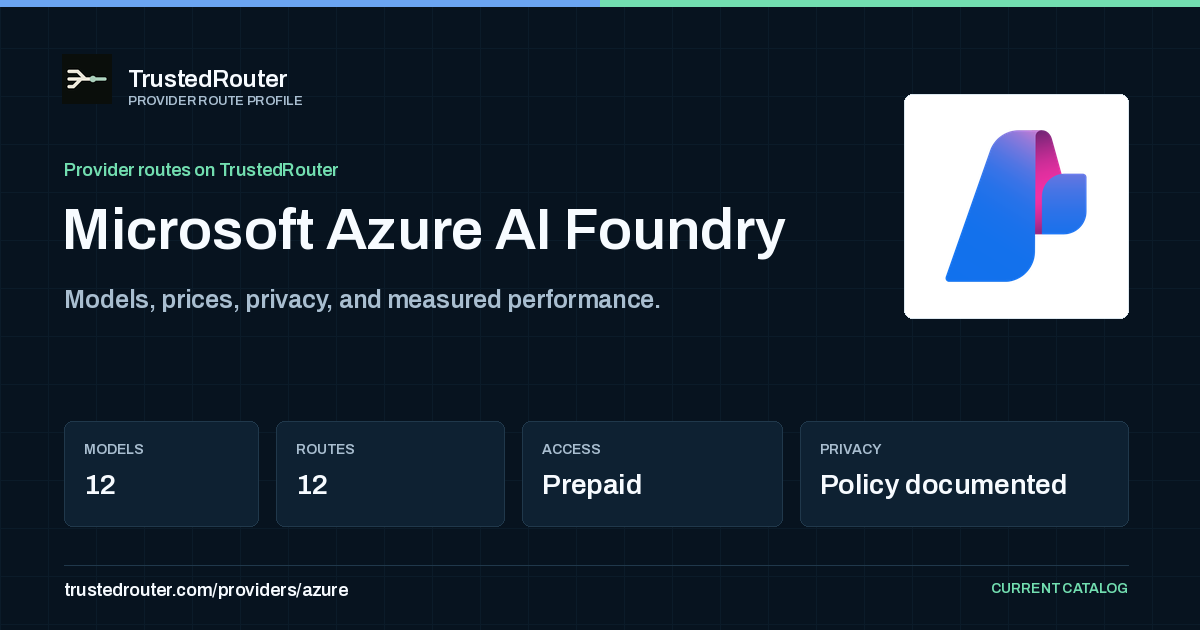
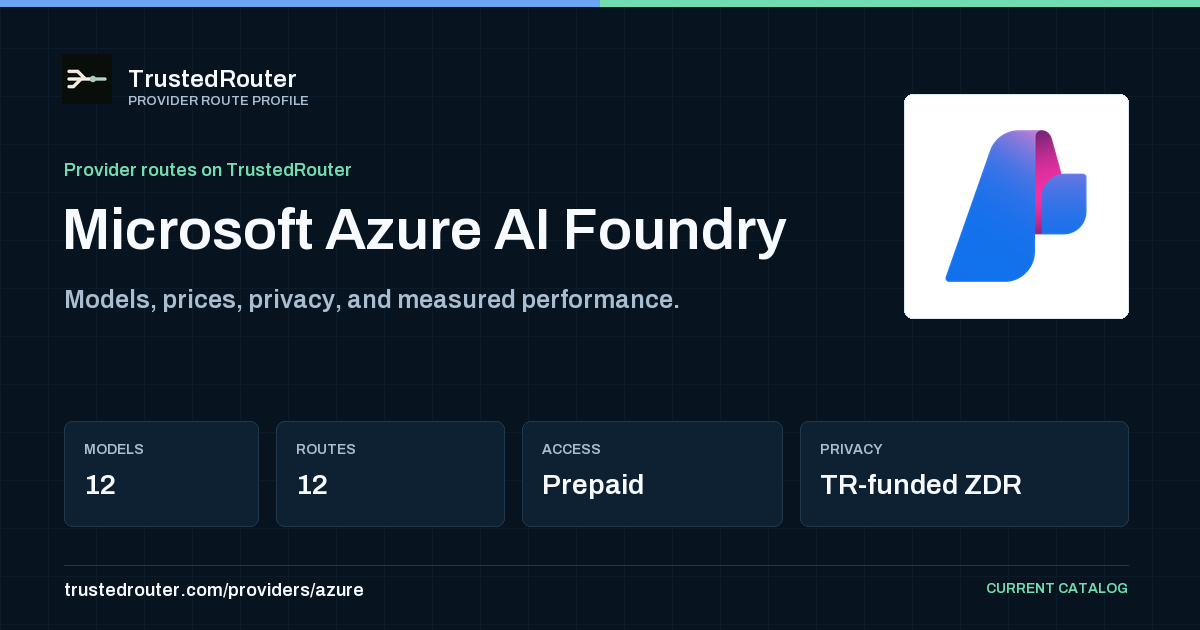
Refresh Azure ZDR card and make hold expiry test deterministic

diff --git a/tests/test_unserved_route_holds.py b/tests/test_unserved_route_holds.py
@@ -410,7 +410,14 @@ def test_a_route_still_unserved_at_expiry_is_held_again(tmp_path: Path) -> None:
     )
 
 
-def test_analytics_unavailable_changes_nothing(tmp_path: Path, monkeypatch, capsys) -> None:
+def test_analytics_unavailable_preserves_unexpired_holds(tmp_path: Path, monkeypatch, capsys) -> None:
+    class FrozenDatetime(dt.datetime):
+        @classmethod
+        def now(cls, tz: dt.tzinfo | None = None) -> dt.datetime:
+            return NOW.astimezone(tz) if tz is not None else NOW.replace(tzinfo=None)
+
+    # The CLI uses wall time; keep the six-hour hold unexpired on every run.
+    monkeypatch.setattr(holds, "datetime", FrozenDatetime)
     held = _row("z-ai/glm-5.1", routable=False, routable_reason=UNSERVED_ROUTE_HOLD_REASON,
                 **{holds.HELD_AT_FIELD: "2026-11-11T12:00:00Z"})
     phala = _manifest(tmp_path, "phala", [held, _row("z-ai/glm-5.2"), _row("qwen/qwen3")])
